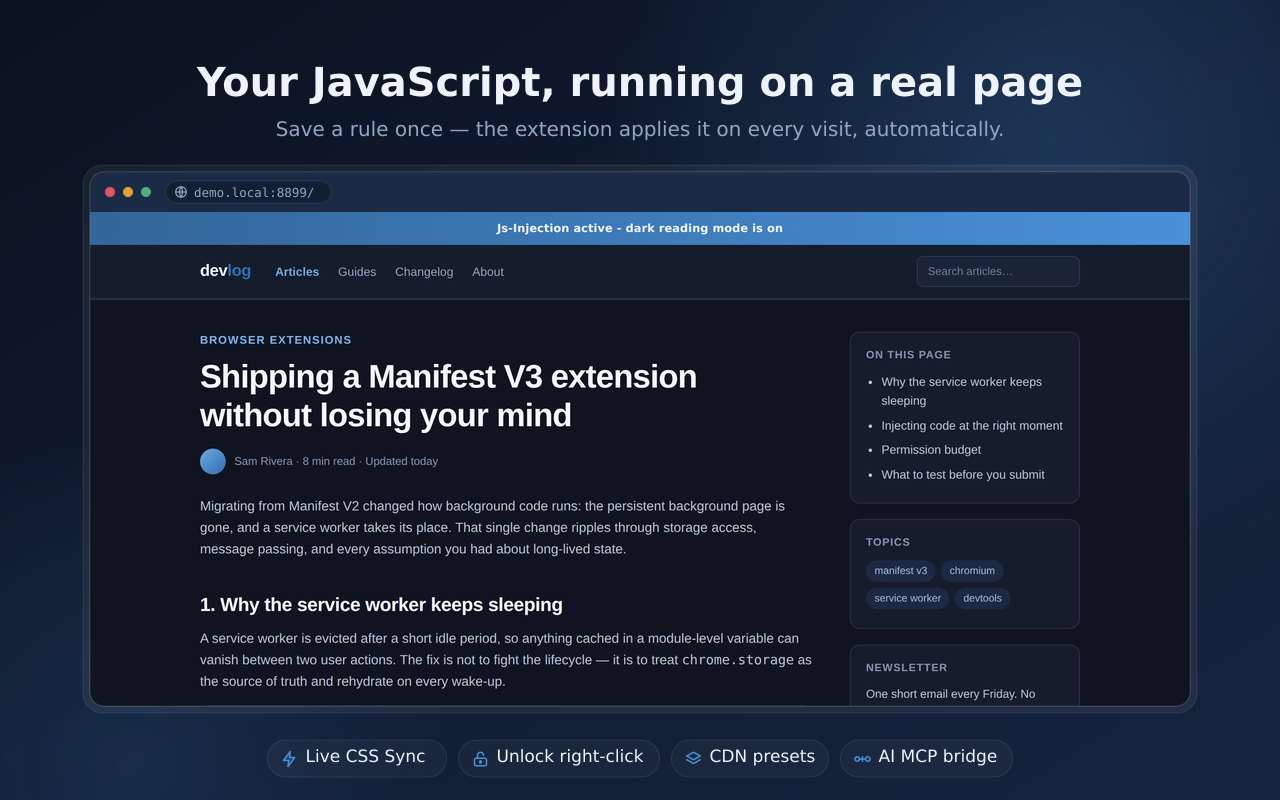
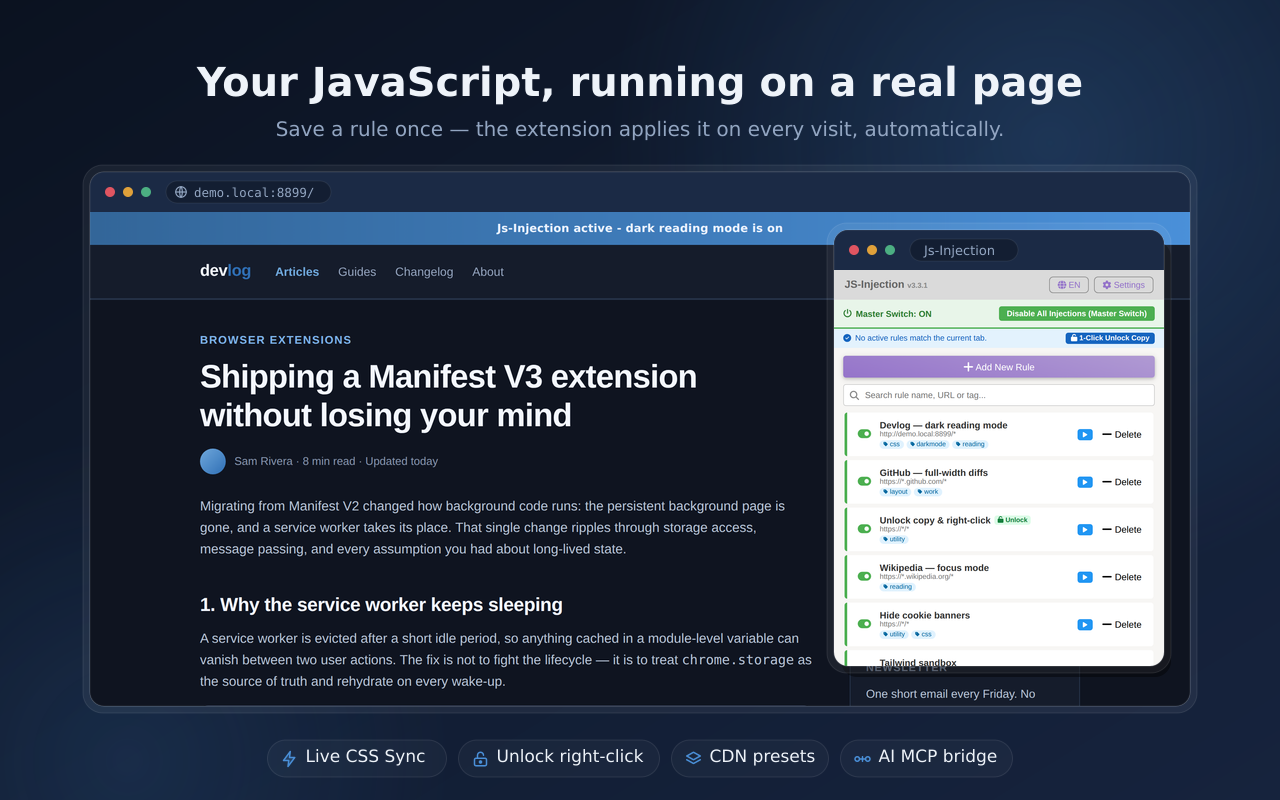
assets: consolidate the store set to exactly five screenshots (slots 1-5)
The Chrome Web Store listing takes five screenshots, so shipping seven meant
two would never be uploaded. Folded them into five that cover every headline
feature, keeping each one a real capture:

- 1 live page: the toolbar popup now sits over the page the way Chrome renders
  it, so the popup surface no longer needs a slide of its own.
- 4 rule editor: absorbs the Live CSS Sync slide as a zoomed crop of the actual
  "Live CSS Sync Active" checkbox, next to the editor frame.
- 5 MCP bridge: renamed from slot 7, content unchanged.

windowShot/plainShot crops now take left/width as well as top/height, which is
what makes the zoomed detail callout possible.

Claude-Session: https://claude.ai/code/session_0123zNBUSmCZTAS3K4QPV2ac

Changed region(s): [[0.625, 0.2812, 0.9375, 0.8438]]

diff --git a/STORE_LISTING.md b/STORE_LISTING.md
@@ -77,15 +77,12 @@ Every screenshot frames a real capture of the built extension running in Chromiu
 (the raw captures live in `STOREIMG/captures/`). Regenerate the whole set with
 `npm run store-images`.
 
-- Screenshots (1280×800), in upload order:
-  1. `screenshot-1-live-1280x800.png` — a rule firing on a live page
+- Screenshots (1280×800) — exactly five, matching the five store slots:
+  1. `screenshot-1-live-1280x800.png` — a rule firing on a live page, toolbar popup open over it
   2. `screenshot-2-before-after-1280x800.png` — same page, injections paused vs applied
-  3. `screenshot-3-dashboard-1280x800.png` — options dashboard
-  4. `screenshot-4-popup-1280x800.png` — toolbar popup
-  5. `screenshot-5-editor-1280x800.png` — rule editor
-  6. `screenshot-6-live-css-1280x800.png` — Live CSS Sync on the CSS tab
-  7. `screenshot-7-mcp-1280x800.png` — AI MCP bridge
-- Chrome Web Store accepts 5 screenshots — upload 1–5. Whale accepts the full set.
+  3. `screenshot-3-dashboard-1280x800.png` — options dashboard (rule list, MCP panel, backups)
+  4. `screenshot-4-editor-1280x800.png` — rule editor, with the Live CSS Sync control zoomed
+  5. `screenshot-5-mcp-1280x800.png` — AI MCP bridge
 - Small promo tile (440×280): `small-promo-440x280.png`
 - Marquee promo tile (1400×560): `marquee-1400x560.png`
 - Store icon (128×128): `public/icon128.png`
